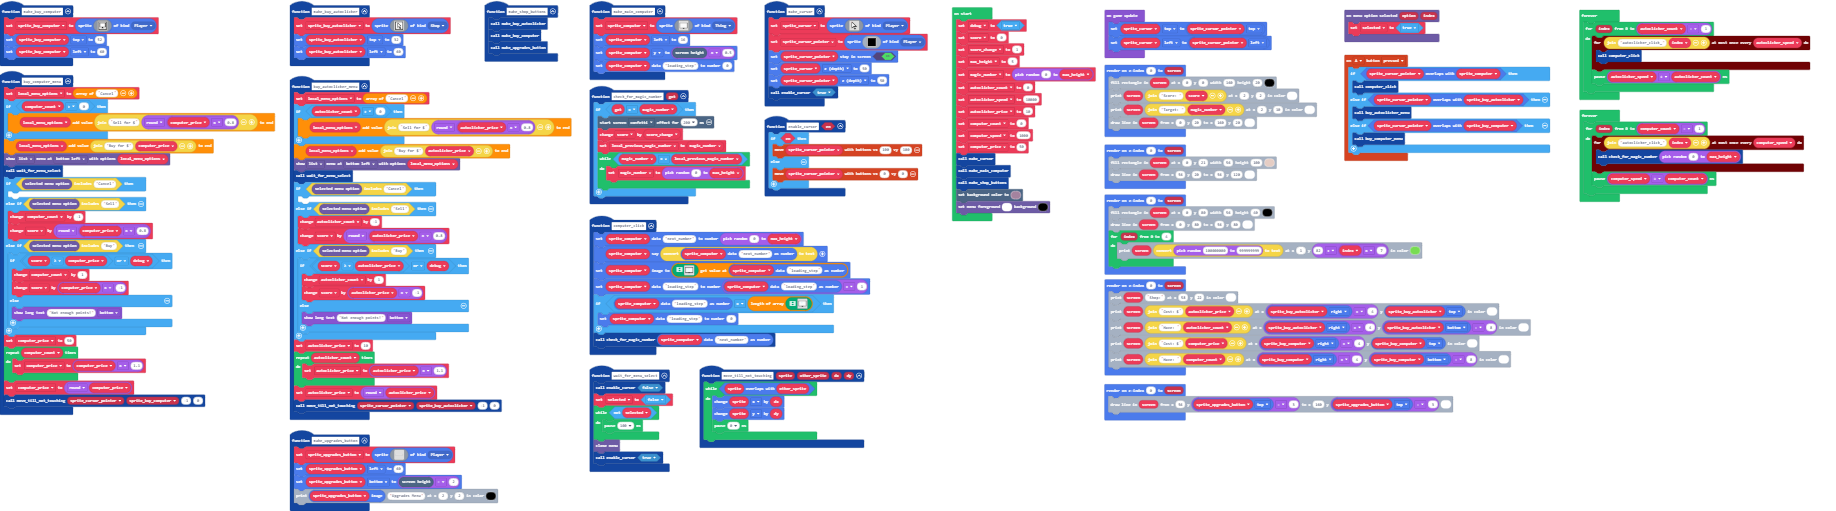
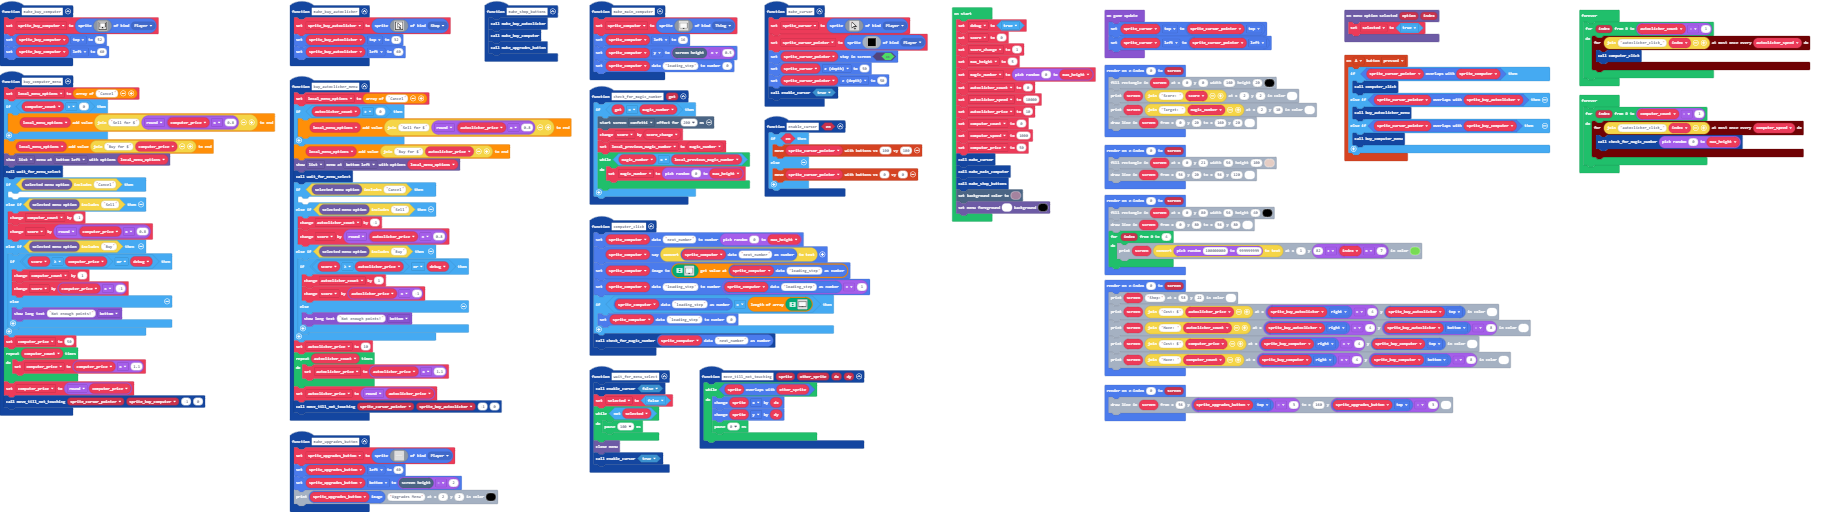
Remove delay from towers

diff --git a/main.ts b/main.ts
@@ -218,7 +218,6 @@ forever(function () {
         timer.throttle("autoclicker_click_" + index, autoclicker_speed, function () {
             computer_click()
         })
-        pause(autoclicker_speed / autoclicker_count)
     }
 })
 forever(function () {
@@ -226,6 +225,5 @@ forever(function () {
         timer.throttle("autoclicker_click_" + index, computer_speed, function () {
             check_for_magic_number(randint(0, max_height))
         })
-        pause(computer_speed / computer_count)
     }
 })
